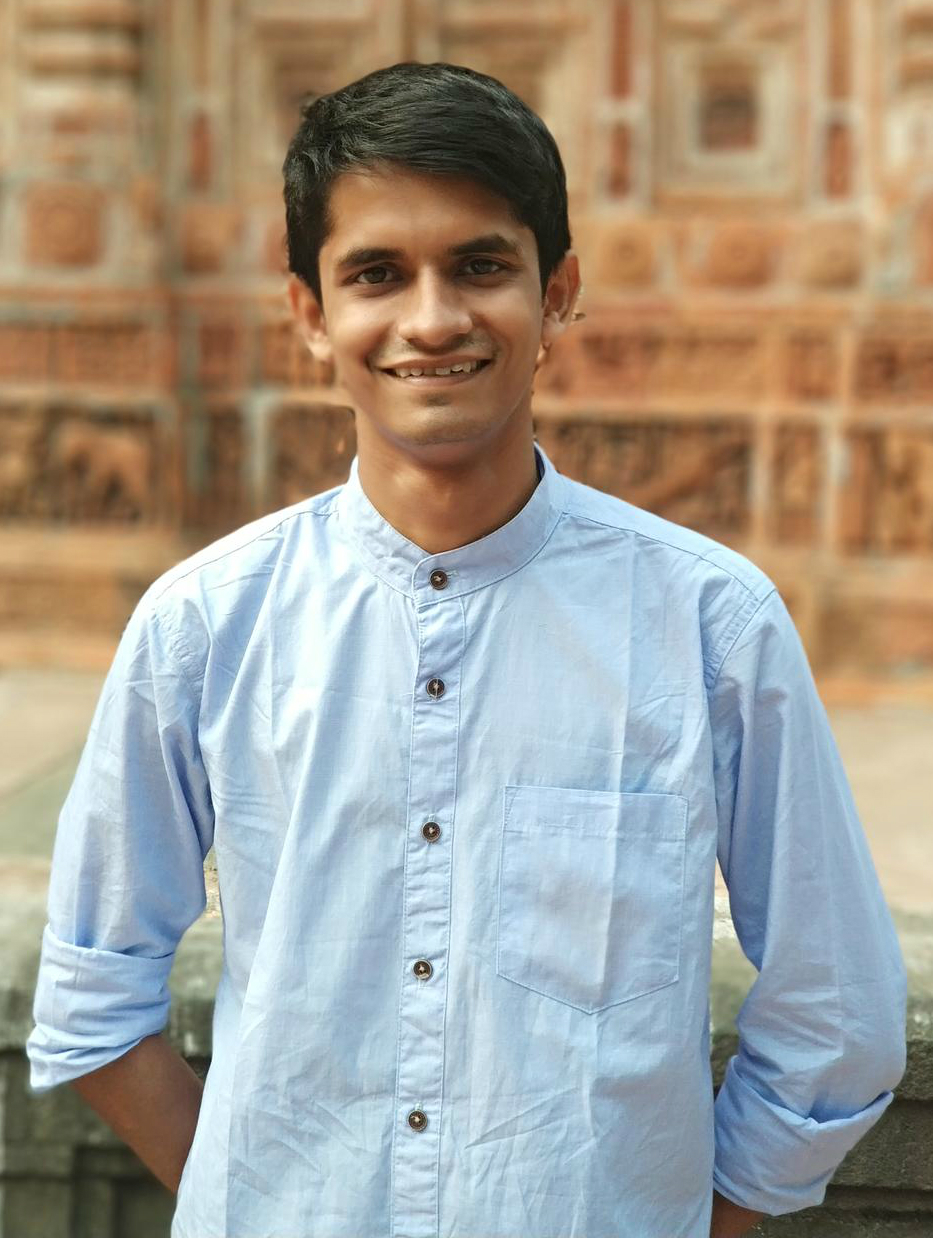
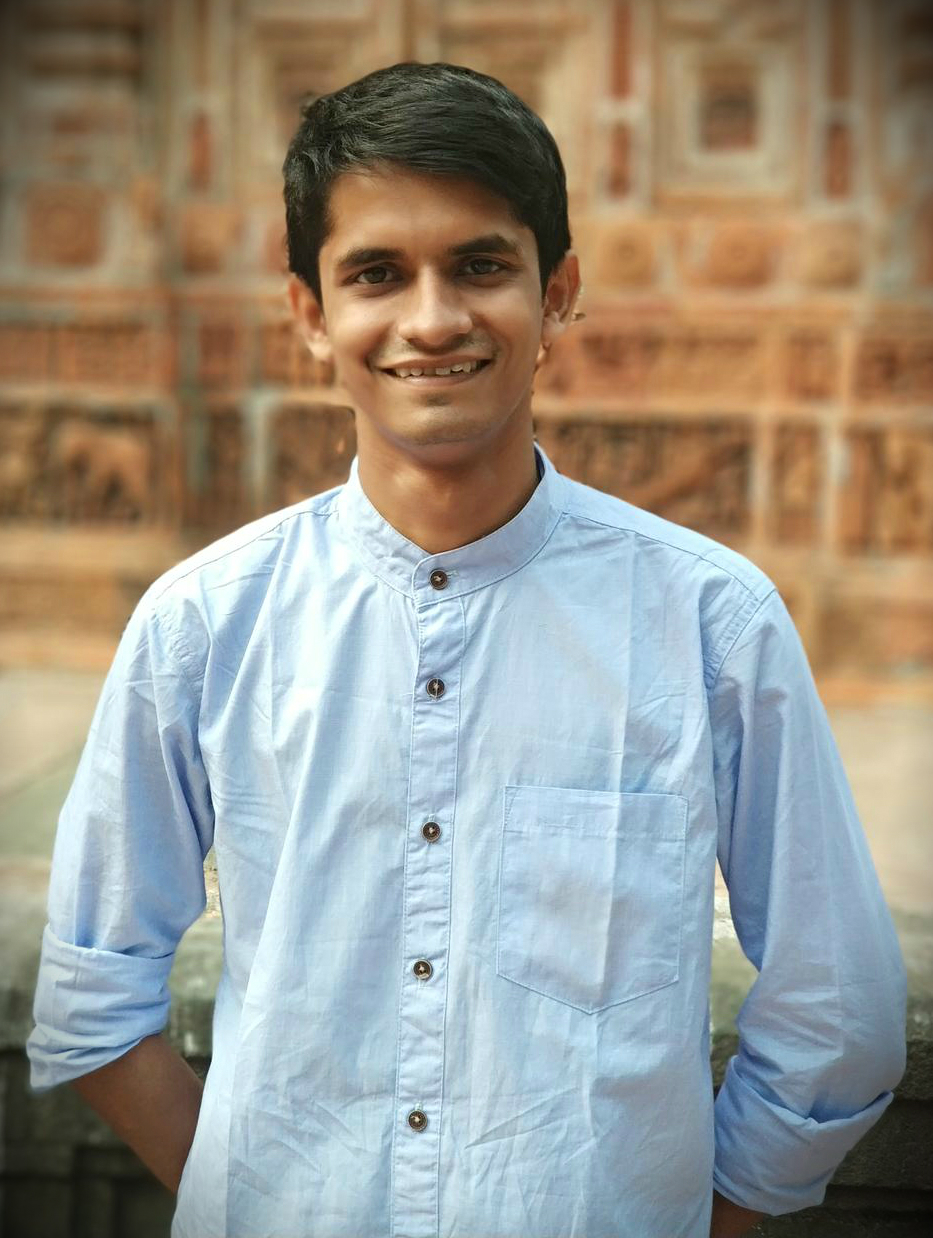
Fix products and team page

diff --git a/resources/views/team/index.blade.php b/resources/views/team/index.blade.php
@@ -16,7 +16,7 @@
       <div class="col-md-4 col-sm-6 team-wrap">
         <div class="team-member text-center">
           <div class="team-img">
-            <img src="/frontend/img/tasnim.png" alt="">
+            <img src="/frontend/img/tasnim-2.jpg" alt="">
             <div class="overlay">
               <div class="team-details text-center">
                 <p>
